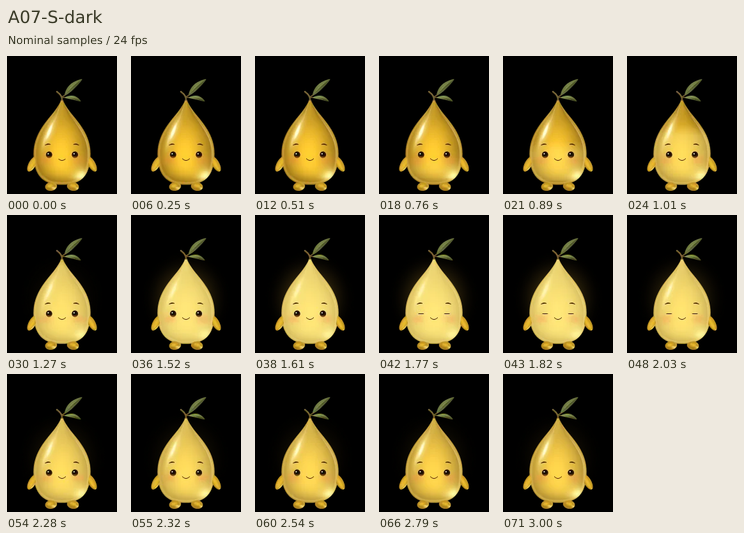
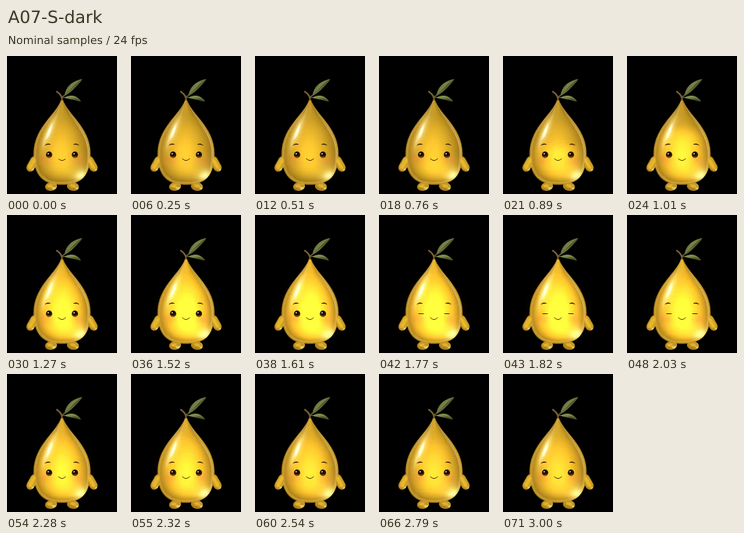
Refine oil, capsule arms and light motion; pass five-file budget pilot

diff --git a/zayt/animations/pilot-report.md b/zayt/animations/pilot-report.md
@@ -1,0 +1,19 @@
+# Budget pilot
+
+The revised pilot uses the deep-gold oil, 70% eyes and rounded capsule arms. `pilot-slots.png` compares five samples and the poster on beige and black. The small rows are 56 pt high. A15 is 112 pt high. Use the gallery to replay the actual files.
+
+| Clip | Bytes / cap | Observation at slot size |
+|---|---:|---|
+| A06 S | 27,548 / 150,000 | One horizontal band crosses the lower body, face and tip. The arm, highlight and leaves stay still. |
+| A07 S light | 89,238 / 150,000 | A bright gold core fills the drop. The darker outline and specular reflection remain visible against beige. No exterior light. |
+| A07 S dark | 105,826 / 150,000 | A short, soft spill accompanies peak intensity on black. Its edge is dithered at fixed canvas coordinates. No ring. |
+| A04 S | 51,100 / 150,000 | The rounded tip of the right arm lifts clear of the body. The other arm stays at the side. |
+| A15 M light | 272,780 / 300,000 | Six small motes rise on vertical tracks. The warm light stays inside the body; the feet stay down. |
+
+## What changed
+
+The first dark S encode measured 339,572 bytes at quality 83. Qualities 77 and 70 measured 307,878 and 291,840. Restricting exterior changes to the peak took those three trials to 187,396, 161,824 and 154,838. Bringing the spill closer to the body passed at 129,228. The revised model keeps that smaller spill. The full inner rise still lasts 1.3 seconds. The blink closes for 350 ms on the timeline, 375 ms in the sampled S file.
+
+The initial peak lost too much saturation. The revised material adds warm light through the core, leaving the edge and reflection intact. Larger decoded frames also revealed rectangular colour steps that were absent in the masters. Lowering quality would not fix these. The three light effects now encode bounded source-replacement rectangles or lossless opaque-pixel updates. Changes below two channel levels accumulate against the last written pixels, not the last nominal sample. The final hold flushes that tolerance. Alpha quality is 100. The pilot uses quality 83, effort 6 and mixed lossy/lossless packets. The arm-only wave uses libwebp's mixed encoder, with 9/17 keyframe bounds. Identical consecutive samples share their full duration.
+
+No pilot file needs a resolution or frame-rate exception. Gallery files are review candidates, not an app change or a device playback test.
